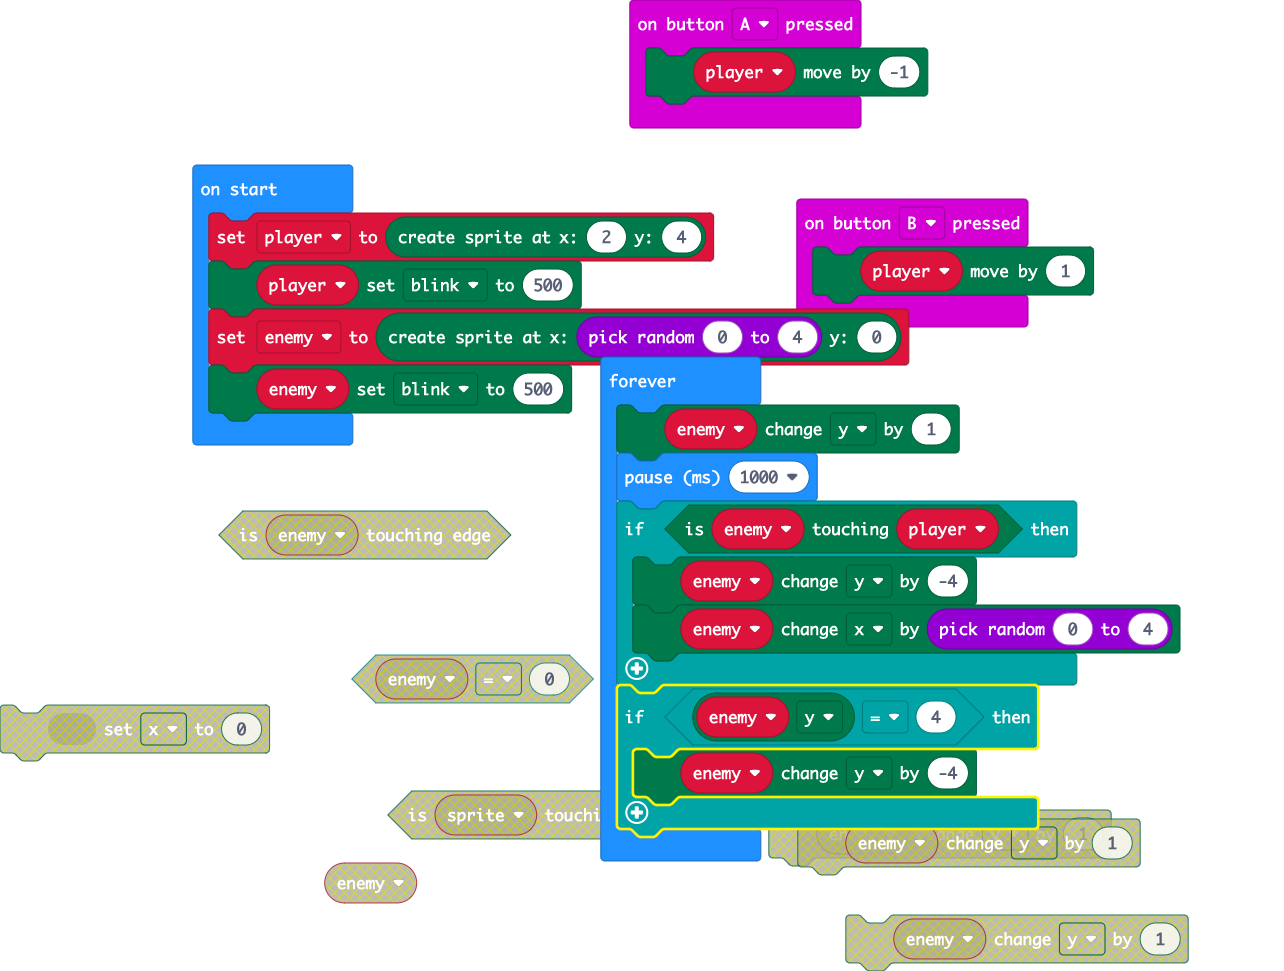
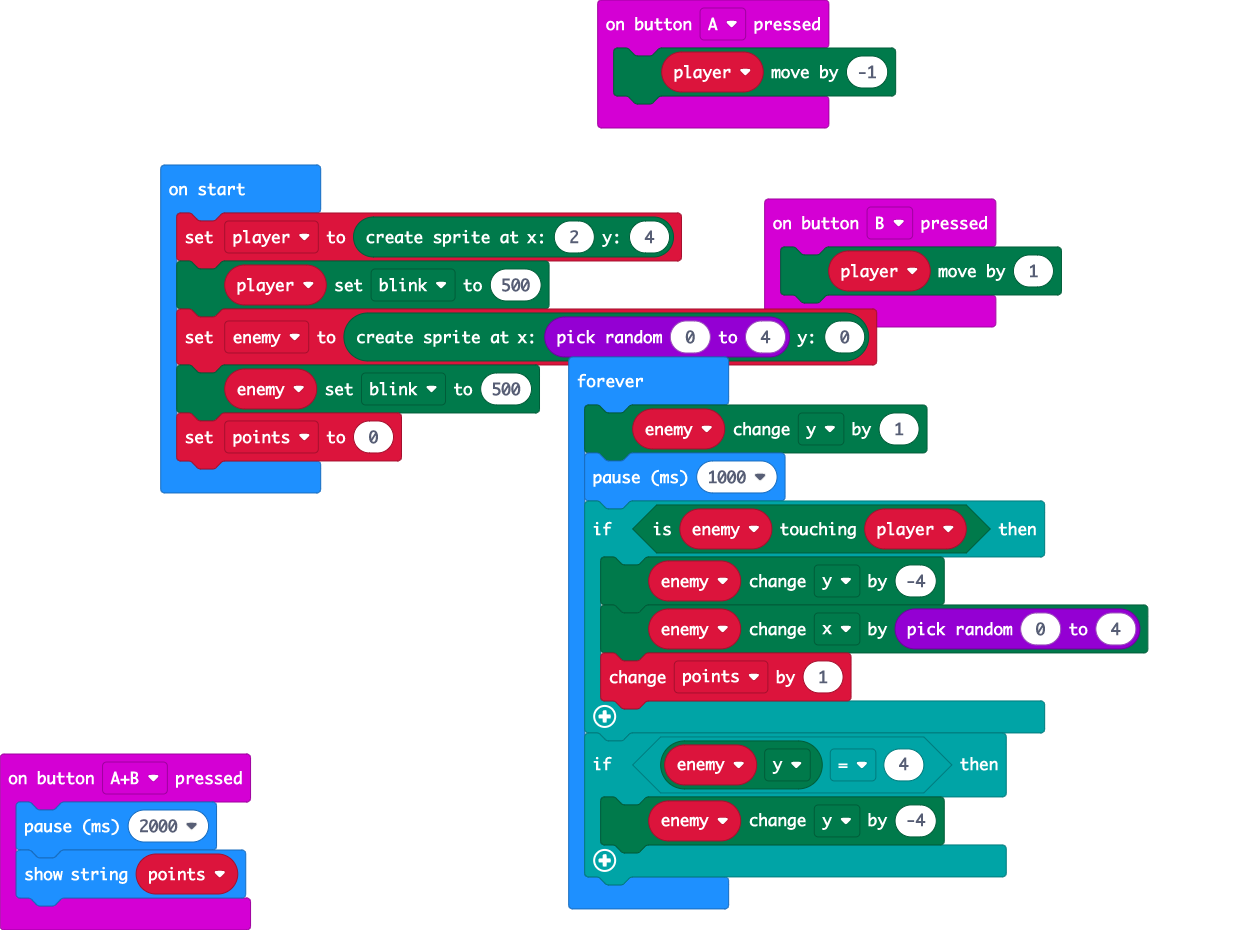
Update main.blocks, main.ts

diff --git a/main.ts b/main.ts
@@ -1,20 +1,27 @@
 input.onButtonPressed(Button.A, function () {
     player.move(-1)
 })
+input.onButtonPressed(Button.AB, function () {
+    basic.pause(2000)
+    basic.showString("" + (points))
+})
 input.onButtonPressed(Button.B, function () {
     player.move(1)
 })
+let points = 0
 let player: game.LedSprite = null
 player = game.createSprite(2, 4)
 player.set(LedSpriteProperty.Blink, 500)
 let enemy = game.createSprite(randint(0, 4), 0)
 enemy.set(LedSpriteProperty.Blink, 500)
+points = 0
 basic.forever(function () {
     enemy.change(LedSpriteProperty.Y, 1)
     basic.pause(1000)
     if (enemy.isTouching(player)) {
         enemy.change(LedSpriteProperty.Y, -4)
         enemy.change(LedSpriteProperty.X, randint(0, 4))
+        points += 1
     }
     if (enemy.get(LedSpriteProperty.Y) == 4) {
         enemy.change(LedSpriteProperty.Y, -4)
